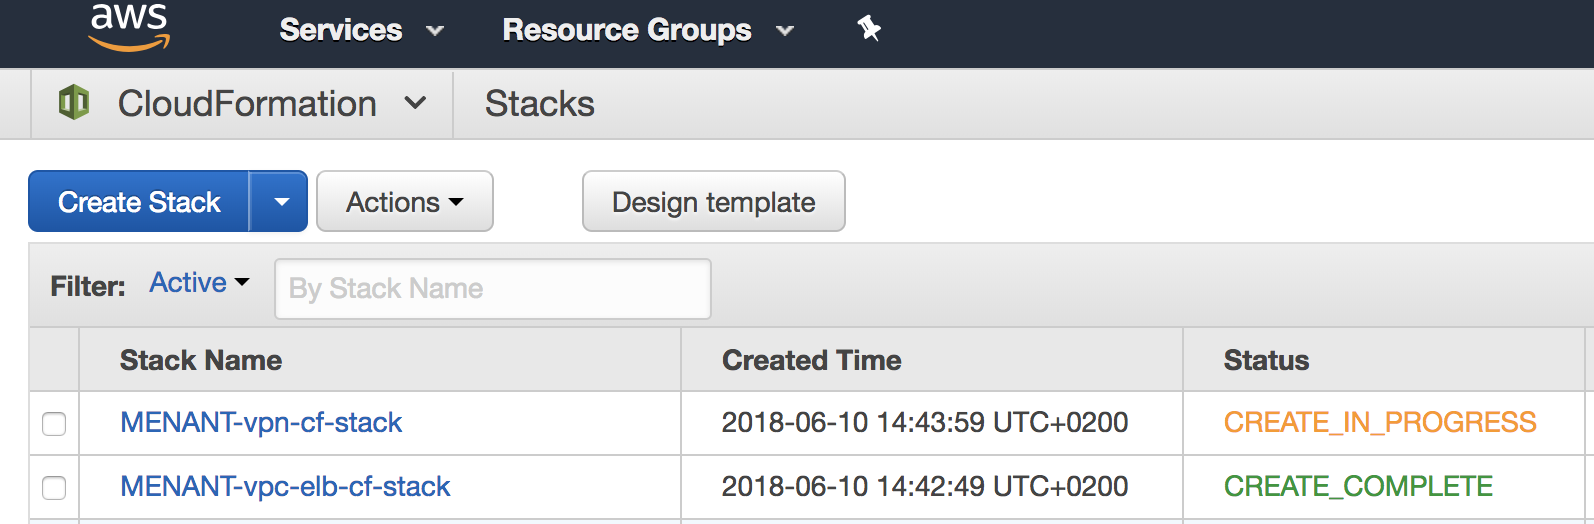
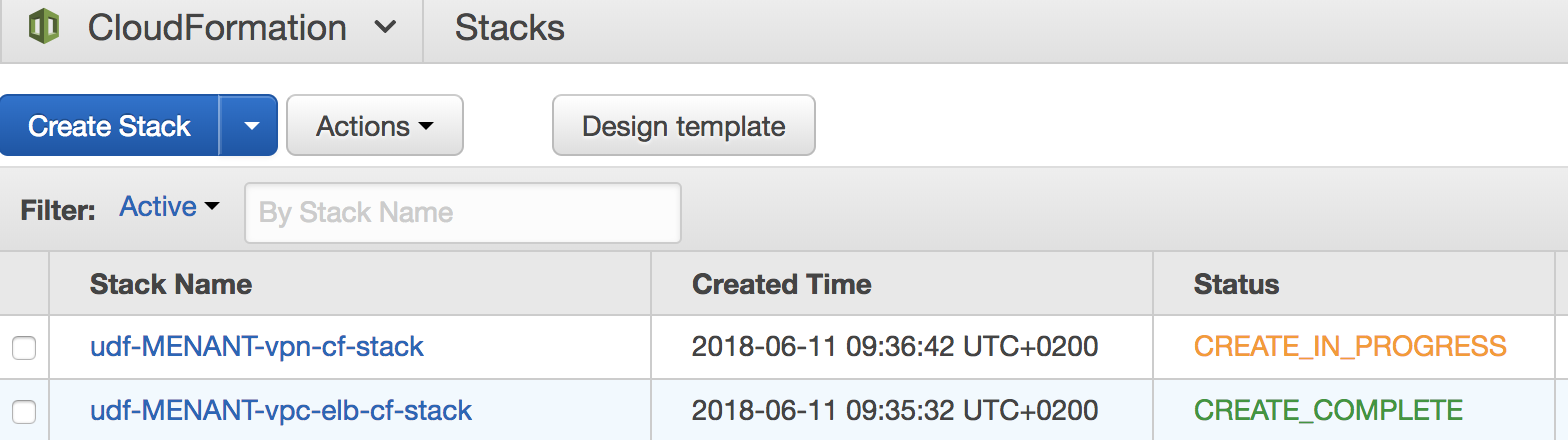
typos

diff --git a/docs/class2/module4/lab2.rst b/docs/class2/module4/lab2.rst
@@ -7,8 +7,8 @@ we will automatically deploy it and review its configuration.
 Retrieve our BIG-IP SEA Public IP 
 *********************************
 
-We will establish a ``VPN`` connection between our ``UDF`` environment and ``AWS``. This will be 
-setup automatically with our BIG-IP SEA as one of the ``VPN endpoint``. 
+We will establish a ``VPN`` connection between our ``UDF`` environment and ``AWS``. 
+This will be setup automatically with our BIG-IP SEA as one of the ``VPN endpoint``. 
 
 In your ``UDF`` blueprint, find your BIG-IP called **SEA-vBIGIP01.termmarc.com.v13.1.0.5 (VPN)** 
 and click on **Access** > **TMUI**. It will open a new tab in your browser to access its GUI. 
@@ -36,8 +36,8 @@ In the example above, we can see that our public IP is **129.146.155.127**.
 Launch our ``SSG`` - Access our orchestrator
 ********************************************
 
-To setup ``BIG-IQ`` and ``AWS`` automatically, open a ``SSH`` connection on the UDF system 
-called: **Ubuntu 16.04 Lamp Server, Radius and DHCP**
+To setup ``BIG-IQ`` and ``AWS`` automatically, open a ``SSH`` connection on the 
+UDF system called: **Ubuntu 16.04 Lamp Server, Radius and DHCP**
 
 .. image:: ../pictures/module4/img_module4_lab2_1.png
   :align: center
@@ -51,10 +51,11 @@ Once connected via ``SSH``, go into the folder: **AWS-CFT-Cloud-Edition**:
 
 we will need to edit the following files: 
 
-* **config.yml**: This file will contains all the information needed to deploy the ``AWS`` environment 
-  successfully. 
-* **08-create-aws-auto-scaling.yml**: we will change the setup of the default ``SSG`` that gets deployed. 
-  we want to deploy 2 instances to review how it is setup as part of a ``SSG`` group. 
+* **config.yml**: This file will contains all the information needed to 
+    deploy the ``AWS`` environment successfully. 
+* **08-create-aws-auto-scaling.yml**: we will change the setup of the default ``SSG`` 
+    that gets deployed. we want to deploy 2 instances to review how it is setup as 
+    part of a ``SSG`` group. 
 
 
 Launch our ``SSG`` - Update config.yml
@@ -66,10 +67,12 @@ Use your favorite editor to update this file.
 
 Here are the settings you will need to change to deploy everything successfully: 
 
-* AWS_ACCESS_KEY_ID: Use the ``AWS Access Key`` you retrieved from the previous lab (IAM section).
-* AWS_SECRET_ACCESS_KEY: Use the ``AWS Secret Access Key`` you retrieve from the previous lab (IAM section).
-* PREFIX: Specify a ``prefix`` that will be used on each object automatically created. we will use
-    **udf-<your NAME>**. For example: **udf-MENANT** 
+* AWS_ACCESS_KEY_ID: Use the ``AWS Access Key`` you retrieved from the previous 
+    lab (IAM section).
+* AWS_SECRET_ACCESS_KEY: Use the ``AWS Secret Access Key`` you retrieve from the 
+    previous lab (IAM section).
+* PREFIX: Specify a ``prefix`` that will be used on each object automatically 
+    created. we will use **udf-<your NAME>**. For example: **udf-MENANT** 
 
   .. warning:: 
         DO NOT PUT a ``-`` at the end or your deployment will fail. 
@@ -86,7 +89,7 @@ Here are the settings you will need to change to deploy everything successfully:
 
 * AWS_SSH_KEY: Use the ``AWS Key Pair`` we created in the previous lab. In our example, it was **CE-Lab-MENANT** 
     but yours should have a different name.
-* CUSTOMER_GATEWAY_IP: Use the Public IP Address of our **SEA BIG-IP** you retrieved earlier. 
+* CUSTOMER_GATEWAY_IP: Use the Public IP Address of your BIG-IP **SEA BIG-IP** that you retrieved earlier. 
 
 Save the config file. 
 
@@ -218,10 +221,6 @@ Change the **minSize** and **desiredSize** from 1 to 2 :
             }
 
 
-**minSize** specified how many BIG-IP VE instances we should deploy in our ``SSG``. Here, we changed the 
-default configuration that would deploy a single instance. This will allow us to see how multiple VEs in 
-a ``SSG`` deployed in ``AWS`` are setup. 
-
 Launch our ``SSG`` - Trigger the deployment 
 *******************************************
 
@@ -231,8 +230,8 @@ To trigger the deployment, run the following command:
 
  ``./000-RUN_ALL.sh nopause``
 
-It will ask you to press Enter to confirm that you subscribed and agreed to the EULA in the marketplace. 
-Press enter to start the deployment. 
+It will ask you to press Enter to confirm that you subscribed and agreed to 
+the EULA in the marketplace. Press enter to start the deployment. 
 
 You should see something like this: 
 
@@ -292,8 +291,8 @@ You should see something like this:
 
     TASK [Build VPC CloudFormation] *********************************************************************************************************************************************************
 
-At this stage, we should start deploying your environment in ``AWS``. In your ``AWS Console``, go to 
-**Services** > **CloudFormation**. 
+At this stage, we should start deploying your environment in ``AWS``. 
+In your ``AWS Console``, go to **Services** > **CloudFormation**. 
 
 .. image:: ../pictures/module4/img_module4_lab2_3.png
   :align: center
@@ -301,9 +300,10 @@ At this stage, we should start deploying your environment in ``AWS``. In your ``
 
 |
 
-Here we can see that ``CloudFormation Stacks`` are being deployed with the prefix **MENANT** as mentioned in 
-**config.yml** file (prefix attribute)
+Here we can see that ``CloudFormation Stacks`` are being deployed with the prefix 
+**udf-MENANT** as mentioned in **config.yml** file (prefix attribute)
 
-In the next lab, we will review what has been setup on ``BIG-IQ`` and what was deployed in our ``AWS VPC``.
+In the next lab, we will review what has been setup on ``BIG-IQ`` and what was 
+deployed in our ``AWS VPC``.
 
 
